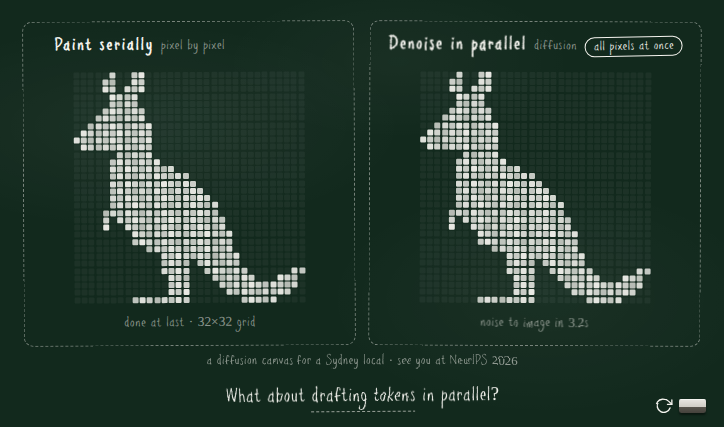
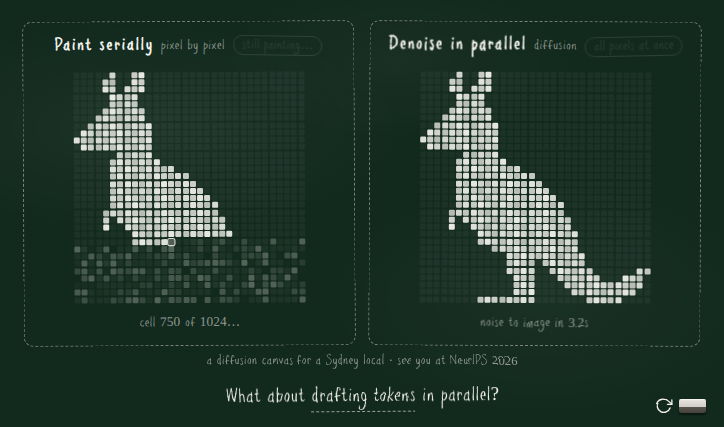
Share image: left kangaroo mid-painting, right complete
Captures the analogy in one frame: serial painting at cell 750 of 1024
while the parallel denoise is already done; question line composited
from the final frame.

Claude-Session: https://claude.ai/code/session_01VtsWs8TGY6YXmKh7YZmUgm

Changed region(s): [[0.0912, 0.548, 0.4254, 0.7916], [0.8204, 0.0609, 0.942, 0.1522]]

diff --git a/submission/teaching_materials 2/interactive_site/index.html b/submission/teaching_materials 2/interactive_site/index.html
@@ -7,13 +7,13 @@
 <meta property="og:description" content="An interactive tutorial on speculative decoding: why it is faster, why rejection sampling keeps it lossless, how to evaluate it, and what comes next. NeurIPS 2026 Education Track.">
 <meta property="og:type" content="website">
 <meta property="og:url" content="https://neurips2026-speculative-decoding.vercel.app/">
-<meta property="og:image" content="https://neurips2026-speculative-decoding.vercel.app/figures/teaser_social.png?v=2">
+<meta property="og:image" content="https://neurips2026-speculative-decoding.vercel.app/figures/teaser_social.png?v=3">
 <meta property="og:image:width" content="724">
 <meta property="og:image:height" content="427">
 <meta name="twitter:card" content="summary_large_image">
 <meta name="twitter:title" content="Speculative Decoding: How It Evolved, When It Stays Lossless, and What's Next">
 <meta name="twitter:description" content="An interactive tutorial on speculative decoding: why it is faster, why rejection sampling keeps it lossless, how to evaluate it, and what comes next.">
-<meta name="twitter:image" content="https://neurips2026-speculative-decoding.vercel.app/figures/teaser_social.png?v=2">
+<meta name="twitter:image" content="https://neurips2026-speculative-decoding.vercel.app/figures/teaser_social.png?v=3">
 <title>Speculative Decoding: How It Evolved, When It Stays Lossless, and What's Next</title>
 <link rel="icon" type="image/png" href="figures/favicon.png" />
 <link rel="shortcut icon" href="figures/favicon.png" />

diff --git a/submission/teaching_materials 2/interactive_site/template.html b/submission/teaching_materials 2/interactive_site/template.html
@@ -7,13 +7,13 @@
 <meta property="og:description" content="An interactive tutorial on speculative decoding: why it is faster, why rejection sampling keeps it lossless, how to evaluate it, and what comes next. NeurIPS 2026 Education Track.">
 <meta property="og:type" content="website">
 <meta property="og:url" content="https://neurips2026-speculative-decoding.vercel.app/">
-<meta property="og:image" content="https://neurips2026-speculative-decoding.vercel.app/figures/teaser_social.png?v=2">
+<meta property="og:image" content="https://neurips2026-speculative-decoding.vercel.app/figures/teaser_social.png?v=3">
 <meta property="og:image:width" content="724">
 <meta property="og:image:height" content="427">
 <meta name="twitter:card" content="summary_large_image">
 <meta name="twitter:title" content="Speculative Decoding: How It Evolved, When It Stays Lossless, and What's Next">
 <meta name="twitter:description" content="An interactive tutorial on speculative decoding: why it is faster, why rejection sampling keeps it lossless, how to evaluate it, and what comes next.">
-<meta name="twitter:image" content="https://neurips2026-speculative-decoding.vercel.app/figures/teaser_social.png?v=2">
+<meta name="twitter:image" content="https://neurips2026-speculative-decoding.vercel.app/figures/teaser_social.png?v=3">
 <title>Speculative Decoding: How It Evolved, When It Stays Lossless, and What's Next</title>
 <link rel="icon" type="image/png" href="figures/favicon.png" />
 <link rel="shortcut icon" href="figures/favicon.png" />

diff --git a/submission/teaching_materials/interactive_site/index.html b/submission/teaching_materials/interactive_site/index.html
@@ -7,13 +7,13 @@
 <meta property="og:description" content="An interactive tutorial on speculative decoding: why it is faster, why rejection sampling keeps it lossless, how to evaluate it, and what comes next. NeurIPS 2026 Education Track.">
 <meta property="og:type" content="website">
 <meta property="og:url" content="https://neurips2026-speculative-decoding.vercel.app/">
-<meta property="og:image" content="https://neurips2026-speculative-decoding.vercel.app/figures/teaser_social.png?v=2">
+<meta property="og:image" content="https://neurips2026-speculative-decoding.vercel.app/figures/teaser_social.png?v=3">
 <meta property="og:image:width" content="724">
 <meta property="og:image:height" content="427">
 <meta name="twitter:card" content="summary_large_image">
 <meta name="twitter:title" content="Speculative Decoding: How It Evolved, When It Stays Lossless, and What's Next">
 <meta name="twitter:description" content="An interactive tutorial on speculative decoding: why it is faster, why rejection sampling keeps it lossless, how to evaluate it, and what comes next.">
-<meta name="twitter:image" content="https://neurips2026-speculative-decoding.vercel.app/figures/teaser_social.png?v=2">
+<meta name="twitter:image" content="https://neurips2026-speculative-decoding.vercel.app/figures/teaser_social.png?v=3">
 <title>Speculative Decoding: How It Evolved, When It Stays Lossless, and What's Next</title>
 <link rel="icon" type="image/png" href="figures/favicon.png" />
 <link rel="shortcut icon" href="figures/favicon.png" />

diff --git a/submission/teaching_materials/interactive_site/template.html b/submission/teaching_materials/interactive_site/template.html
@@ -7,13 +7,13 @@
 <meta property="og:description" content="An interactive tutorial on speculative decoding: why it is faster, why rejection sampling keeps it lossless, how to evaluate it, and what comes next. NeurIPS 2026 Education Track.">
 <meta property="og:type" content="website">
 <meta property="og:url" content="https://neurips2026-speculative-decoding.vercel.app/">
-<meta property="og:image" content="https://neurips2026-speculative-decoding.vercel.app/figures/teaser_social.png?v=2">
+<meta property="og:image" content="https://neurips2026-speculative-decoding.vercel.app/figures/teaser_social.png?v=3">
 <meta property="og:image:width" content="724">
 <meta property="og:image:height" content="427">
 <meta name="twitter:card" content="summary_large_image">
 <meta name="twitter:title" content="Speculative Decoding: How It Evolved, When It Stays Lossless, and What's Next">
 <meta name="twitter:description" content="An interactive tutorial on speculative decoding: why it is faster, why rejection sampling keeps it lossless, how to evaluate it, and what comes next.">
-<meta name="twitter:image" content="https://neurips2026-speculative-decoding.vercel.app/figures/teaser_social.png?v=2">
+<meta name="twitter:image" content="https://neurips2026-speculative-decoding.vercel.app/figures/teaser_social.png?v=3">
 <title>Speculative Decoding: How It Evolved, When It Stays Lossless, and What's Next</title>
 <link rel="icon" type="image/png" href="figures/favicon.png" />
 <link rel="shortcut icon" href="figures/favicon.png" />
